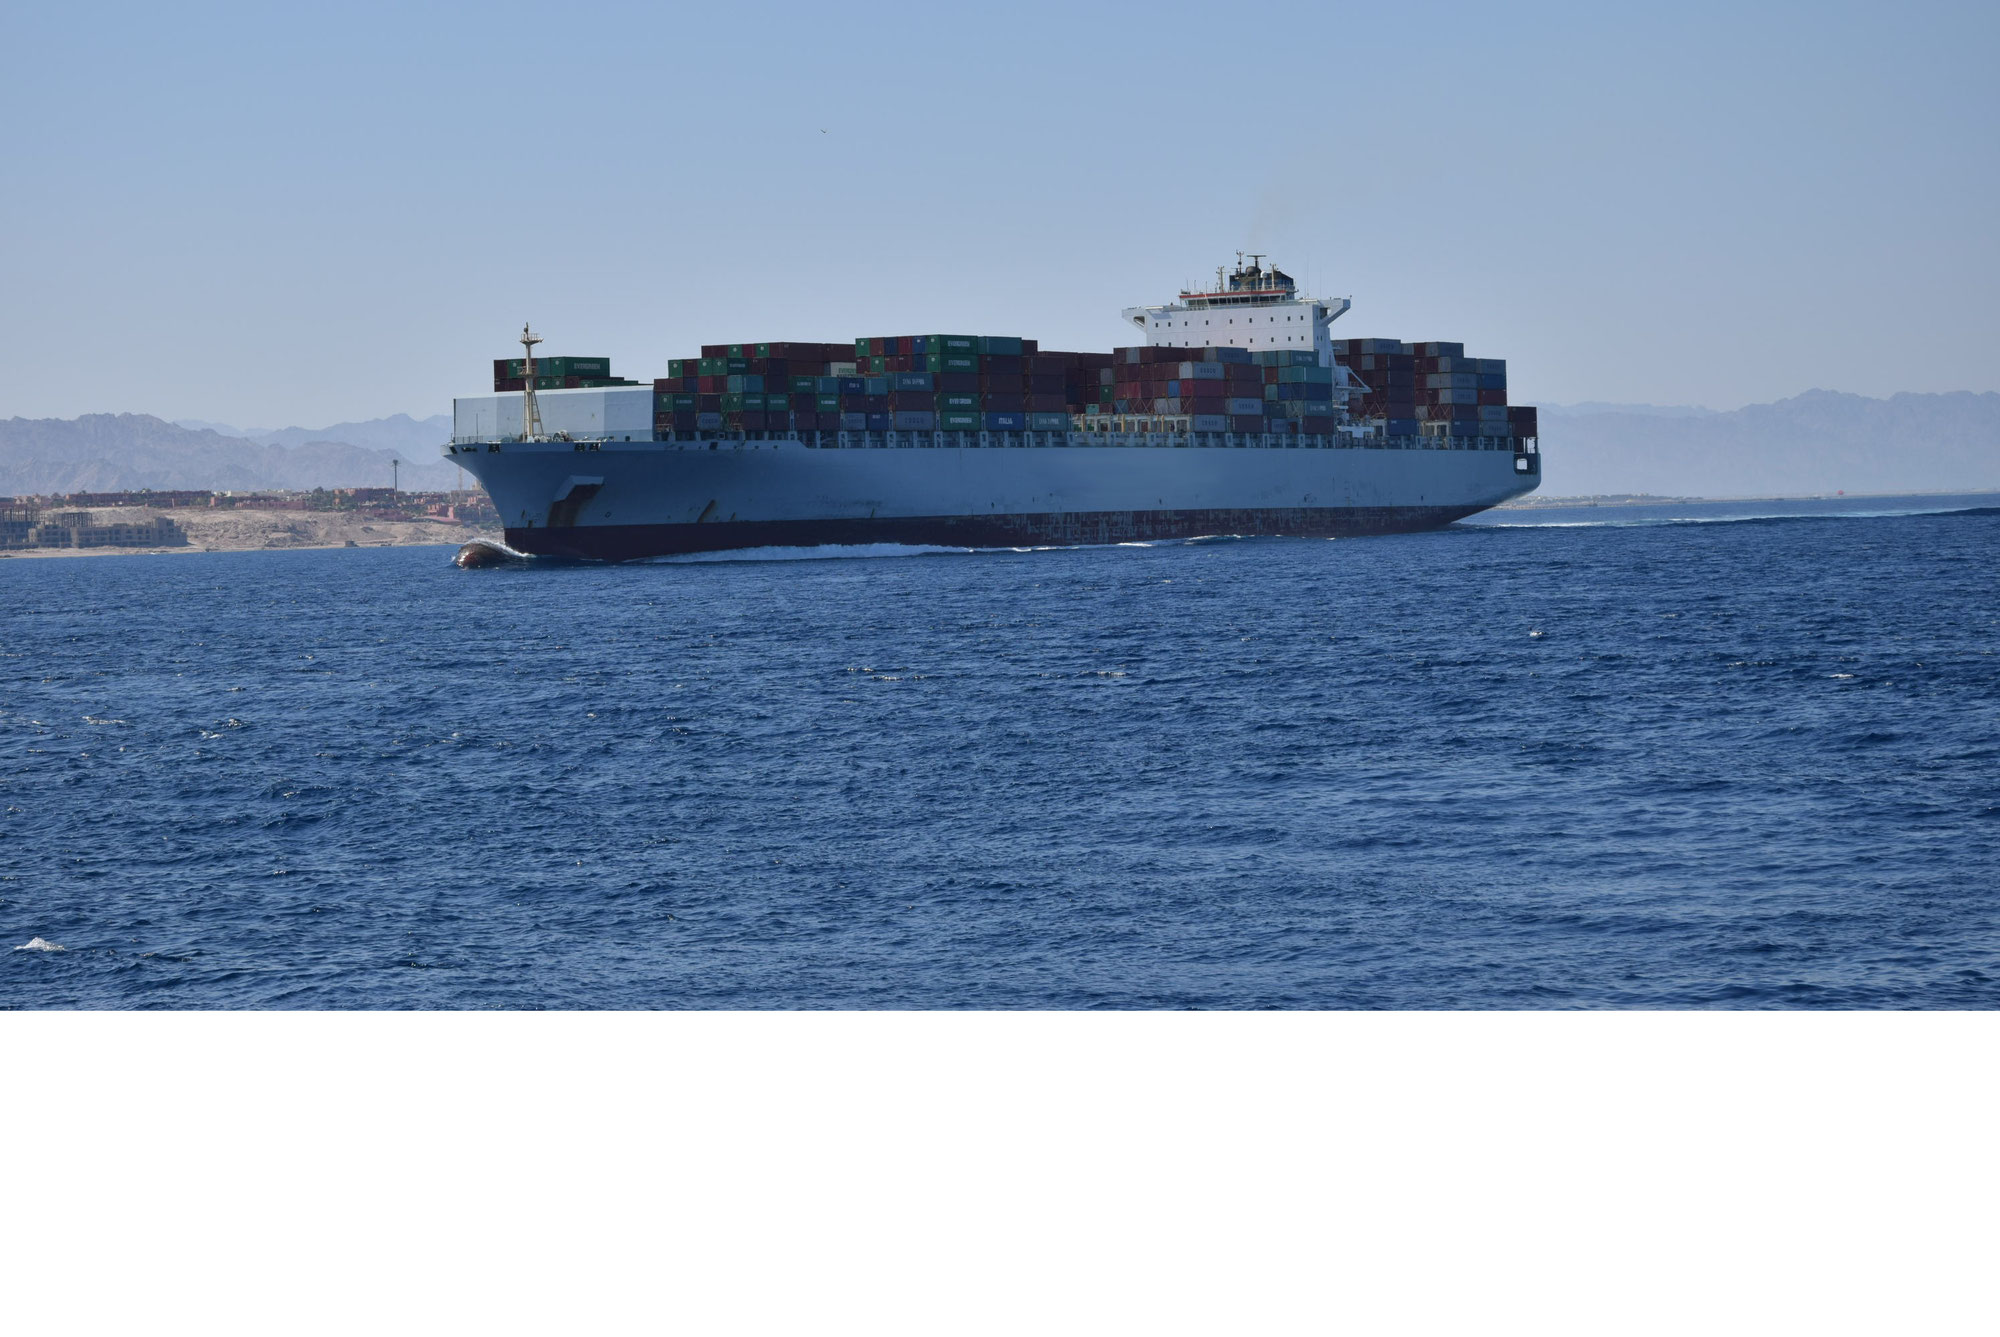
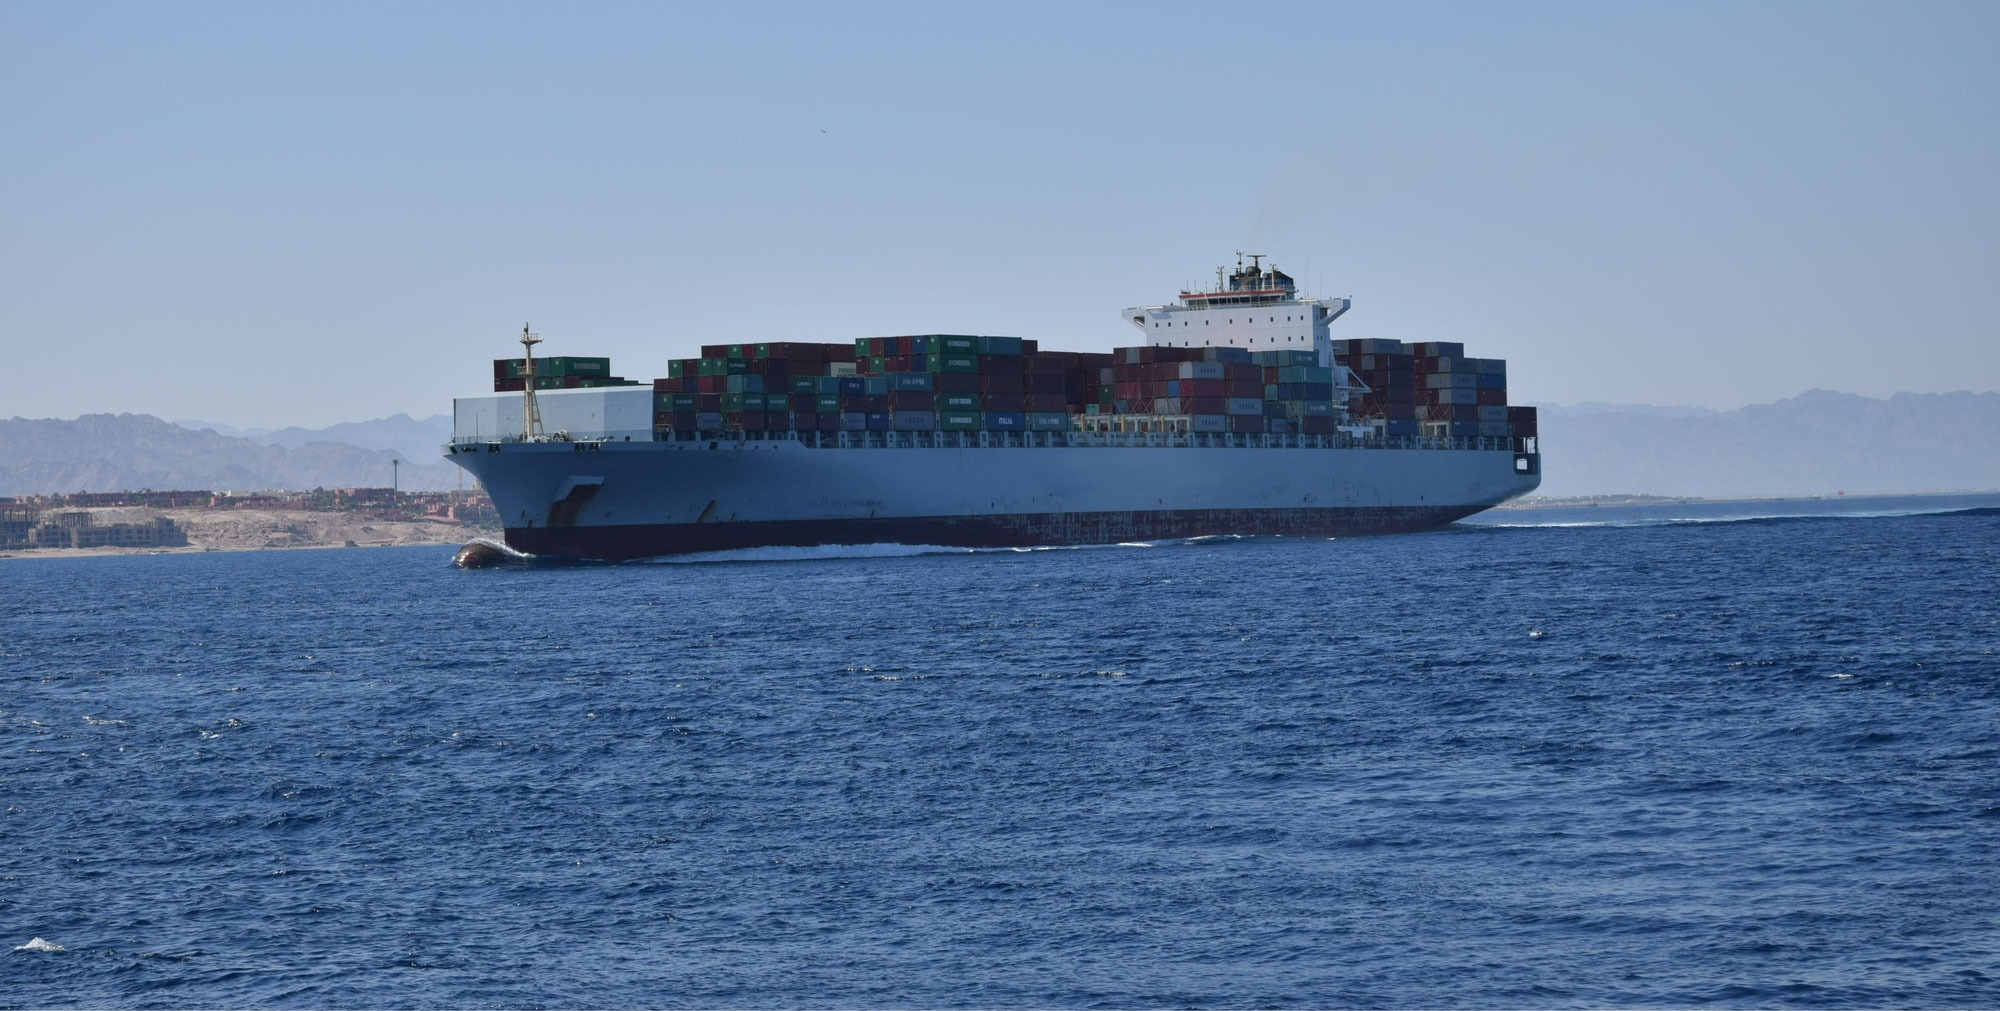
Мобильная версия: логотип наверх, фото без белой полосы, телефон с новой строки
- Логотип в верхней полосе справа от кнопки меню (раньше был в середине фото).
- Белая полоса внизу фото на всех слайдах обрезана: фото теперь одной высоты
  при смене слайдов, красная полоса идёт сразу под фото.
- На главной телефон «+7 (495) 369-1065» с новой строки под «Успешно работаем
  с 2014 года», текст выровнен по левому краю (только телефон).

Claude-Session: https://claude.ai/code/session_01HaRR1h4eiBjfnSCUSHb1F8

diff --git a/www/index.html b/www/index.html
@@ -91,9 +91,7 @@
     <div class="site-content alignment-options content-options-inner c-content-parent">
       <div id="content_area" data-container="content"><div id="content_start"></div>
         
-        <div id="c-matrix-2956939123"><div id="c-m-11806227823" class="m-module n m-text"><p style="text-align: center;">
-    Успешно работаем с 2014 года             +7 (495) 369-1065
-</p></div><div id="c-m-14964894423" class="m-module n m-hr">    <hr/>
+        <div id="c-matrix-2956939123"><div id="c-m-11806227823" class="m-module n m-text"><p class="site-contact" style="text-align: center;">Успешно работаем с 2014 года<span class="site-phone"> +7 (495) 369-1065</span></p></div><div id="c-m-14964894423" class="m-module n m-hr">    <hr/>
 </div><div id="c-m-11715750423" class="m-module n m-header"><h2 class="" id="c-m-header-11715750423">Что мы предлагаем</h2></div><div id="c-m-11715751723" class="m-module n m-hgrid">    <div class="c-m-hgrid-column last" style="width: 100%;">
         <div id="c-matrix-3277105023"><div id="c-m-11715861823" class="m-module n m-text"><p>
     Мы предлагаем подключение подвижных и стационарных объектов с помощью телематических модулей к программно-аппаратной платформе с целью сбора, визуализации, хранения

diff --git a/www/assets/css/site.css b/www/assets/css/site.css
@@ -52,3 +52,14 @@
 .lb-prev{left:4px;top:50%;transform:translateY(-50%)}
 .lb-next{right:4px;top:50%;transform:translateY(-50%)}
 @media(max-width:600px){.lb-img{max-width:100%;max-height:80%}.lb-prev,.lb-next{top:auto;bottom:10px;transform:none}}
+
+/* Мобильная версия (телефон) */
+@media(max-width:767px){
+  /* логотип — в верхней полосе, справа от кнопки меню */
+  .site-header__inner{height:90px}
+  #c-website-logo{position:absolute;left:104px;top:-63px;width:auto}
+  #c-website-logo img{height:50px !important;width:auto !important;max-width:none}
+  /* телефон — с новой строки, под «Успешно работаем» */
+  .site-contact{text-align:left !important}
+  .site-phone{display:block}
+}
